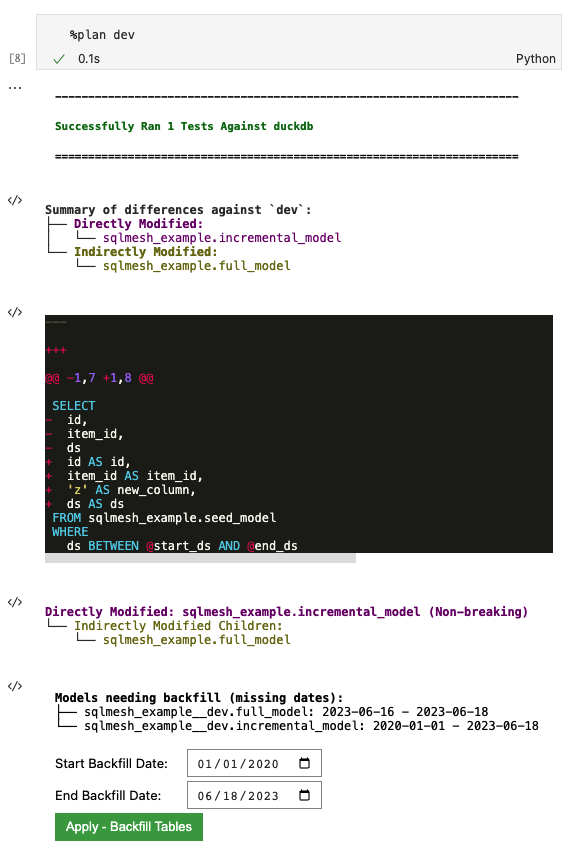
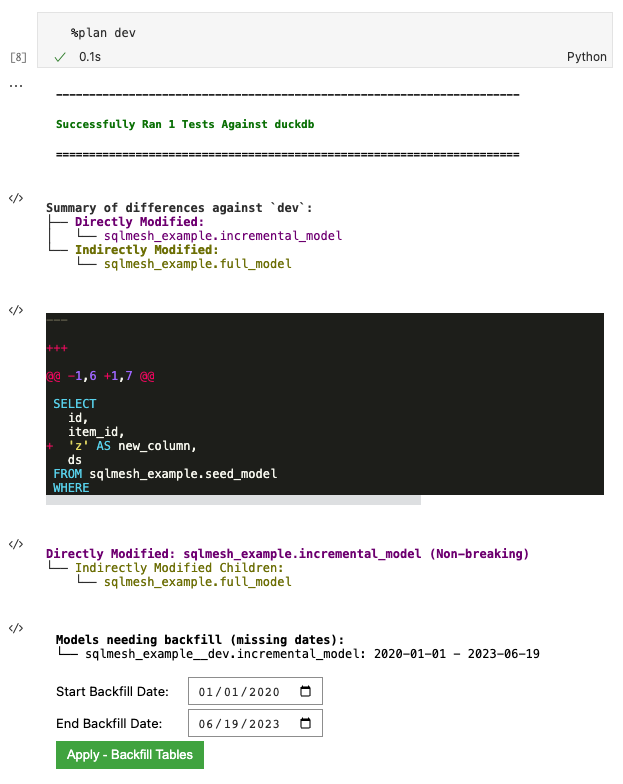
Fix notebook plan description

diff --git a/docs/quickstart/notebook.md b/docs/quickstart/notebook.md
@@ -102,7 +102,7 @@ The third block shows the modifications we made to the rendered query.
 
 The next block shows that we directly modified the incremental model. SQLMesh understood that the change was additive (added a column not used by `full_model`) and automatically classified it as a non-breaking change.
 
-The final block describes the models requiring backfill, including the full model since the date `dev` was created from `prod` and the incremental model from our start date `2020-01-01`. We can modify the backfill start and end dates for the incremental model with the date picker widget, if desired. 
+The final block describes the models requiring backfill, including the incremental model from our start date `2020-01-01`. We can modify the backfill start and end dates for the incremental model with the date picker widget, if desired. 
 
 Click the green `Apply - Backfill Tables` button to apply the plan and execute the backfill:
 
